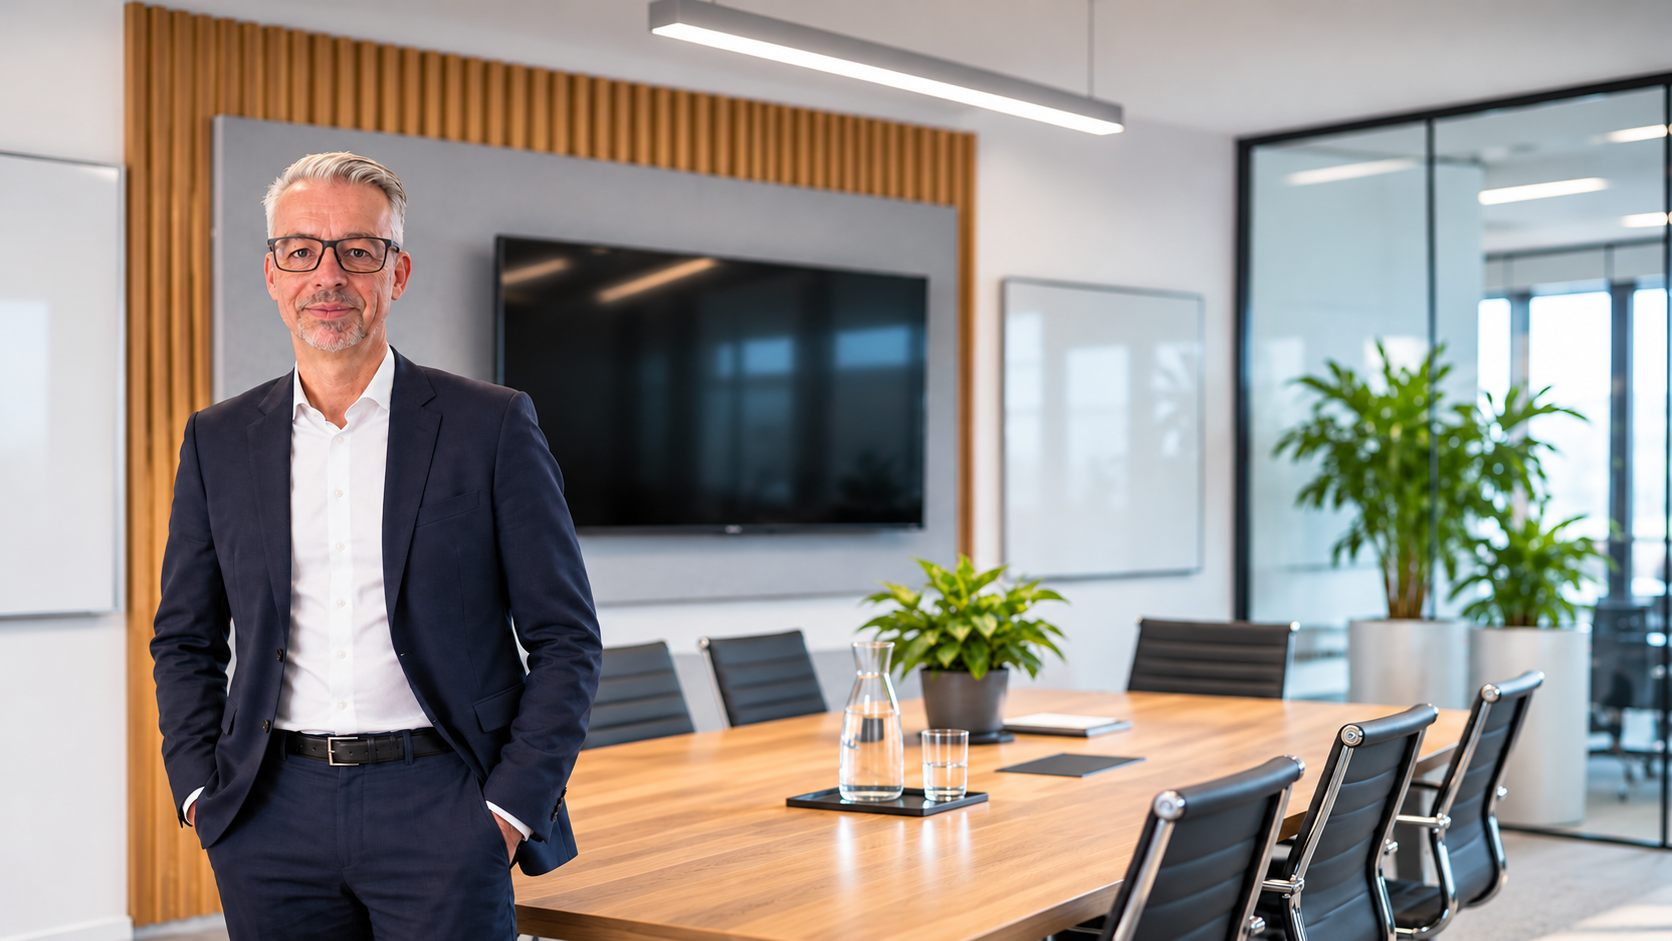
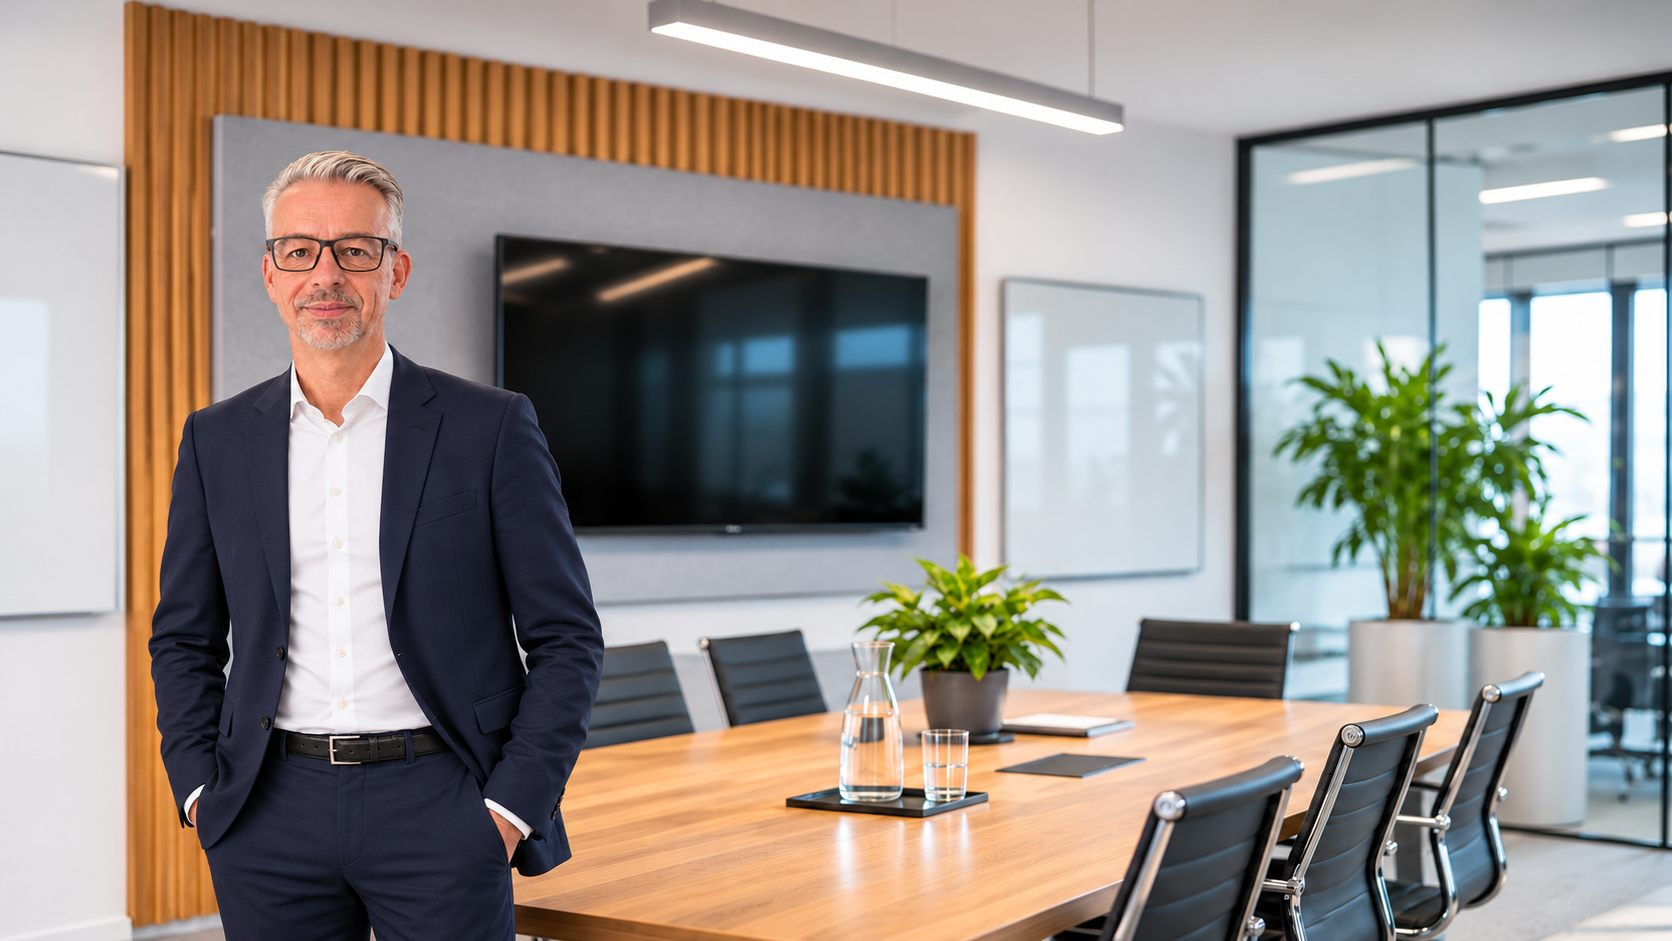
Startseite: Über mich – Foto erneut ausgetauscht

diff --git a/index.html b/index.html
@@ -415,7 +415,7 @@
       <div class="container split">
         <div class="span-5">
           <!-- Foto (PRD §31): assets/img/ueber-mich.jpg, vom Auftraggeber bereitgestellt, Bildrechte in assets/img/README.md -->
-          <img class="portrait" src="assets/img/ueber-mich.jpg?v=6" alt="Stefan Hansen in einem Besprechungsraum" width="1672" height="941" loading="lazy">
+          <img class="portrait" src="assets/img/ueber-mich.jpg?v=7" alt="Stefan Hansen in einem Besprechungsraum" width="1672" height="941" loading="lazy">
         </div>
         <div class="span-7">
           <p class="kicker">Über mich</p>
